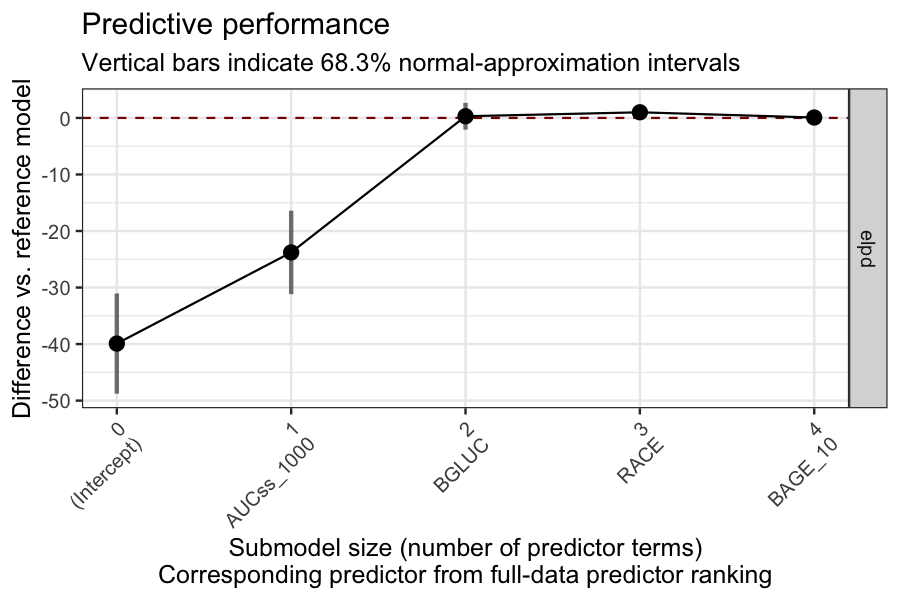
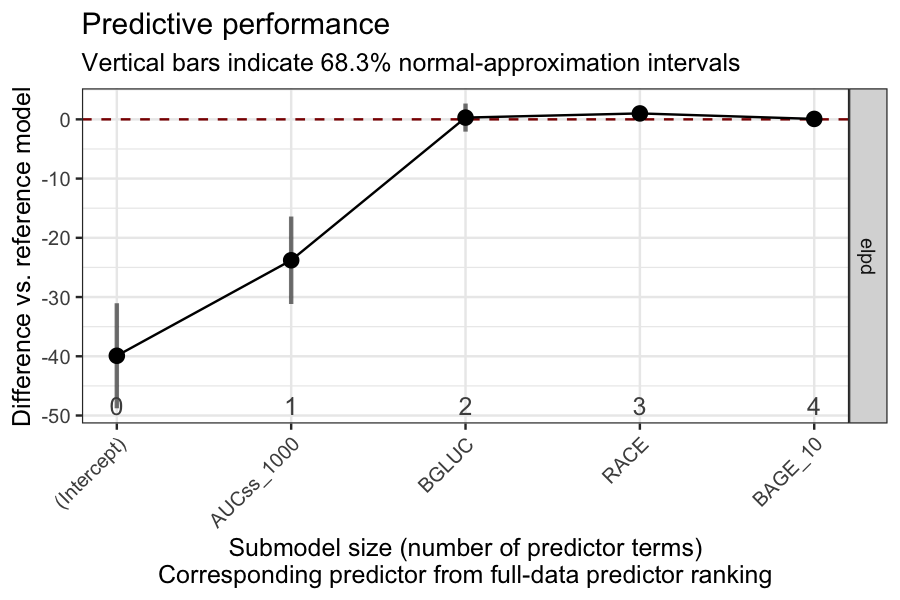
Update README and record CRAN submission for v0.2.6

diff --git a/README.md b/README.md
@@ -88,8 +88,8 @@ install.packages('BayesERtools')
 <td headers="linear" class="gt_row gt_left" style="text-align: center; vertical-align: middle;"><span class='gt_from_md'>✅</span></td>
 <td headers="emax" class="gt_row gt_left" style="text-align: center; vertical-align: middle;"><span class='gt_from_md'>❌</span></td></tr>
   </tbody>
-  &#10;  <tfoot class="gt_footnotes">
-    <tr>
+  <tfoot>
+    <tr class="gt_footnotes">
       <td class="gt_footnote" colspan="5"> ✅ Available, 🟡 In plan/under development, ❌ Not in a current plan</td>
     </tr>
   </tfoot>
@@ -107,7 +107,7 @@ for more thorough walk through.
 # Load package and data
 library(dplyr)
 library(BayesERtools)
-ggplot2::theme_set(ggplot2::theme_bw(base_size = 12))
+theme_set(theme_bw(base_size = 12))
 
 data(d_sim_binom_cov)
 
@@ -156,14 +156,14 @@ ermod_bin
 # Using `*` instead of `+` so that scale can be
 # applied for both panels (main plot and boxplot)
 plot_er_gof(ermod_bin, var_group = "Dose", show_coef_exp = TRUE) *
-  xgxr::xgx_scale_x_log10(guide = ggplot2::guide_axis(minor.ticks = TRUE))
-#> Warning in ggplot2::annotate("label", x = pos_ci_annot[1], y = pos_ci_annot[2],
-#> : Ignoring unknown parameters: `label.size`
-#> Warning: annotation$theme is not a valid theme.
-#> Please use `theme()` to construct themes.
+  coord_transform(x = "log10") *
+  scale_x_continuous(
+    breaks = xgxr::xgx_breaks_log10,
+    minor_breaks = xgxr::xgx_minor_breaks_log10
+  )
 ```
 
-<img src="man/figures/README-ermod_bin-1.png" width="75%" />
+<img src="man/figures/README-ermod_bin-1.png" alt="" width="75%" />
 
 ### Covariate selection
 
@@ -212,13 +212,11 @@ ermod_bin_cov_sel
 plot_submod_performance(ermod_bin_cov_sel)
 ```
 
-<img src="man/figures/README-ermod_bin_cov_sel-1.png" width="75%" />
+<img src="man/figures/README-ermod_bin_cov_sel-1.png" alt="" width="75%" />
 
 ``` r
 coveffsim <- sim_coveff(ermod_bin_cov_sel)
 plot_coveff(coveffsim)
-#> Warning in geom_errorbar(..., orientation = orientation): Ignoring unknown
-#> parameters: `height`
 ```
 
-<img src="man/figures/README-plot_coveff-1.png" width="75%" />
+<img src="man/figures/README-plot_coveff-1.png" alt="" width="75%" />